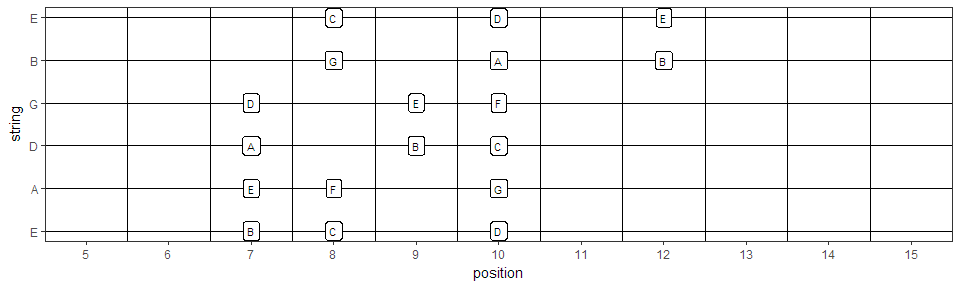
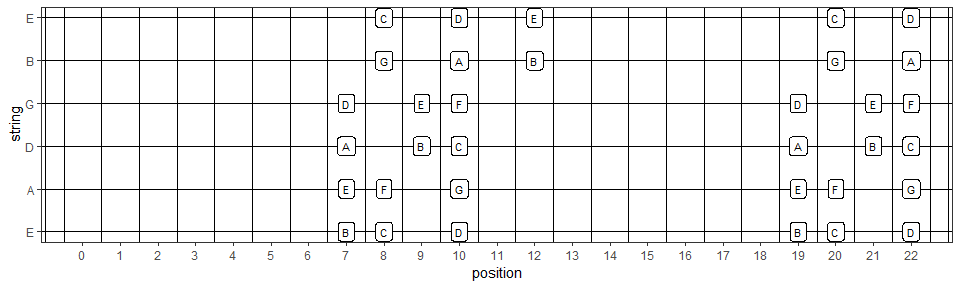
Including chords

diff --git a/README.md b/README.md
@@ -66,8 +66,8 @@ GuitarPlot(Apositions, labsize = 3)
 Get and plot the Ionian mode in C
 
 ``` r
-Ionian3 <- GetMode("C", "Ionian3")
-GuitarPlot(Ionian3, labsize = 3, firstfret = 1, lastfret = 24)
+Ionian3 <- GetMode(tune = "C",nfrets = 22,mode = "Ionian3")
+GuitarPlot(Ionian3, labsize = 3)
 ```
 
 ![](README_files/figure-markdown_github/unnamed-chunk-4-1.png)
@@ -75,8 +75,8 @@ GuitarPlot(Ionian3, labsize = 3, firstfret = 1, lastfret = 24)
 Get and plot the Ionian mode in A\#
 
 ``` r
-Ionian3 <- GetMode("A#", "Ionian3")
-GuitarPlot(Ionian3, labsize = 3, firstfret = 1, lastfret = 24)
+Ionian3 <- GetMode(tune = "A#",nfrets = 22,mode = "Ionian3")
+GuitarPlot(Ionian3, labsize = 3)
 ```
 
 ![](README_files/figure-markdown_github/unnamed-chunk-5-1.png)
@@ -84,8 +84,8 @@ GuitarPlot(Ionian3, labsize = 3, firstfret = 1, lastfret = 24)
 Get and plot the Dorian3 mode in D
 
 ``` r
-Dorian3 <- GetMode("D", "Dorian3")
-GuitarPlot(Dorian3, labsize = 3, firstfret = 5, lastfret = 15)
+Dorian3 <- GetMode(tune = "D",nfrets = 22,mode = "Dorian3")
+GuitarPlot(Dorian3, labsize = 3)
 ```
 
 ![](README_files/figure-markdown_github/unnamed-chunk-6-1.png)
@@ -93,8 +93,8 @@ GuitarPlot(Dorian3, labsize = 3, firstfret = 5, lastfret = 15)
 Get and plot the Phrygian3 mode in E
 
 ``` r
-Phrygian3 <- GetMode("E", "Phrygian3")
-GuitarPlot(Phrygian3, labsize = 3, firstfret = 1, lastfret = 22)
+Phrygian3 <- GetMode(tune = "E",nfrets = 22,mode = "Phrygian3")
+GuitarPlot(Phrygian3, labsize = 3)
 ```
 
 ![](README_files/figure-markdown_github/unnamed-chunk-7-1.png)
@@ -102,8 +102,8 @@ GuitarPlot(Phrygian3, labsize = 3, firstfret = 1, lastfret = 22)
 Get and plot the Lydian3 mode in F
 
 ``` r
-Lydian3 <- GetMode("F", "Lydian3")
-GuitarPlot(Lydian3, labsize = 3, firstfret = 1, lastfret = 20)
+Lydian3 <- GetMode(tune = "F",nfrets = 22,mode = "Lydian3")
+GuitarPlot(Lydian3, labsize = 3)
 ```
 
 ![](README_files/figure-markdown_github/unnamed-chunk-8-1.png)
@@ -111,8 +111,8 @@ GuitarPlot(Lydian3, labsize = 3, firstfret = 1, lastfret = 20)
 Get and plot the MixoLydian3 mode in G
 
 ``` r
-MixoLydian3 <- GetMode("G", "MixoLydian3")
-GuitarPlot(MixoLydian3, labsize = 3, firstfret = 1, lastfret = 22)
+MixoLydian3 <- GetMode(tune = "G",nfrets = 22,mode = "MixoLydian3")
+GuitarPlot(MixoLydian3, labsize = 3)
 ```
 
 ![](README_files/figure-markdown_github/unnamed-chunk-9-1.png)
@@ -120,8 +120,8 @@ GuitarPlot(MixoLydian3, labsize = 3, firstfret = 1, lastfret = 22)
 Get and plot the Aeolian3 mode in A
 
 ``` r
-Aeolian3 <- GetMode("A", "Aeolian3")
-GuitarPlot(Aeolian3, labsize = 3, firstfret = 0, lastfret = 10)
+Aeolian3 <- GetMode(tune = "A",nfrets = 22,mode = "Aeolian3")
+GuitarPlot(Aeolian3, labsize = 3)
 ```
 
 ![](README_files/figure-markdown_github/unnamed-chunk-10-1.png)
@@ -129,8 +129,8 @@ GuitarPlot(Aeolian3, labsize = 3, firstfret = 0, lastfret = 10)
 Get and plot the Locrian3 mode in B
 
 ``` r
-Locrian3 <- GetMode("B", "Locrian3")
-GuitarPlot(Locrian3, labsize = 3, firstfret = 5, lastfret = 15)
+Locrian3 <- GetMode(tune = "B",nfrets = 22,mode = "Locrian3")
+GuitarPlot(Locrian3, labsize = 3)
 ```
 
 ![](README_files/figure-markdown_github/unnamed-chunk-11-1.png)
@@ -138,7 +138,7 @@ GuitarPlot(Locrian3, labsize = 3, firstfret = 5, lastfret = 15)
 Get positions of all modes starting from a centain mode and tune
 
 ``` r
-# Combine <- CombineModes(tune = "F",basemode = "Lydian3", modes = c("Ionian3"))
+# Combine <- CombineModes(tune = "F",nfrets = 22,basemode = "Lydian3", modes = c("Ionian3"))
 Combine <- CombineModes(tune = "C",basemode = "Ionian3", modes = NULL)
 GuitarPlot(Combine)
 ```
@@ -148,8 +148,7 @@ GuitarPlot(Combine)
 Get positions of all modes starting from a centain mode and tune
 
 ``` r
-# Combine <- CombineModes(tune = "F",basemode = "Lydian3", modes = c("Ionian3"))
-Combine <- CombineModes(tune = "F",basemode = "Ionian3", modes = NULL)
+Combine <- CombineModes(tune = "F",nfrets = 22, basemode = "Lydian3", modes = c("Ionian3"))
 GuitarPlot(Combine)
 ```
 
